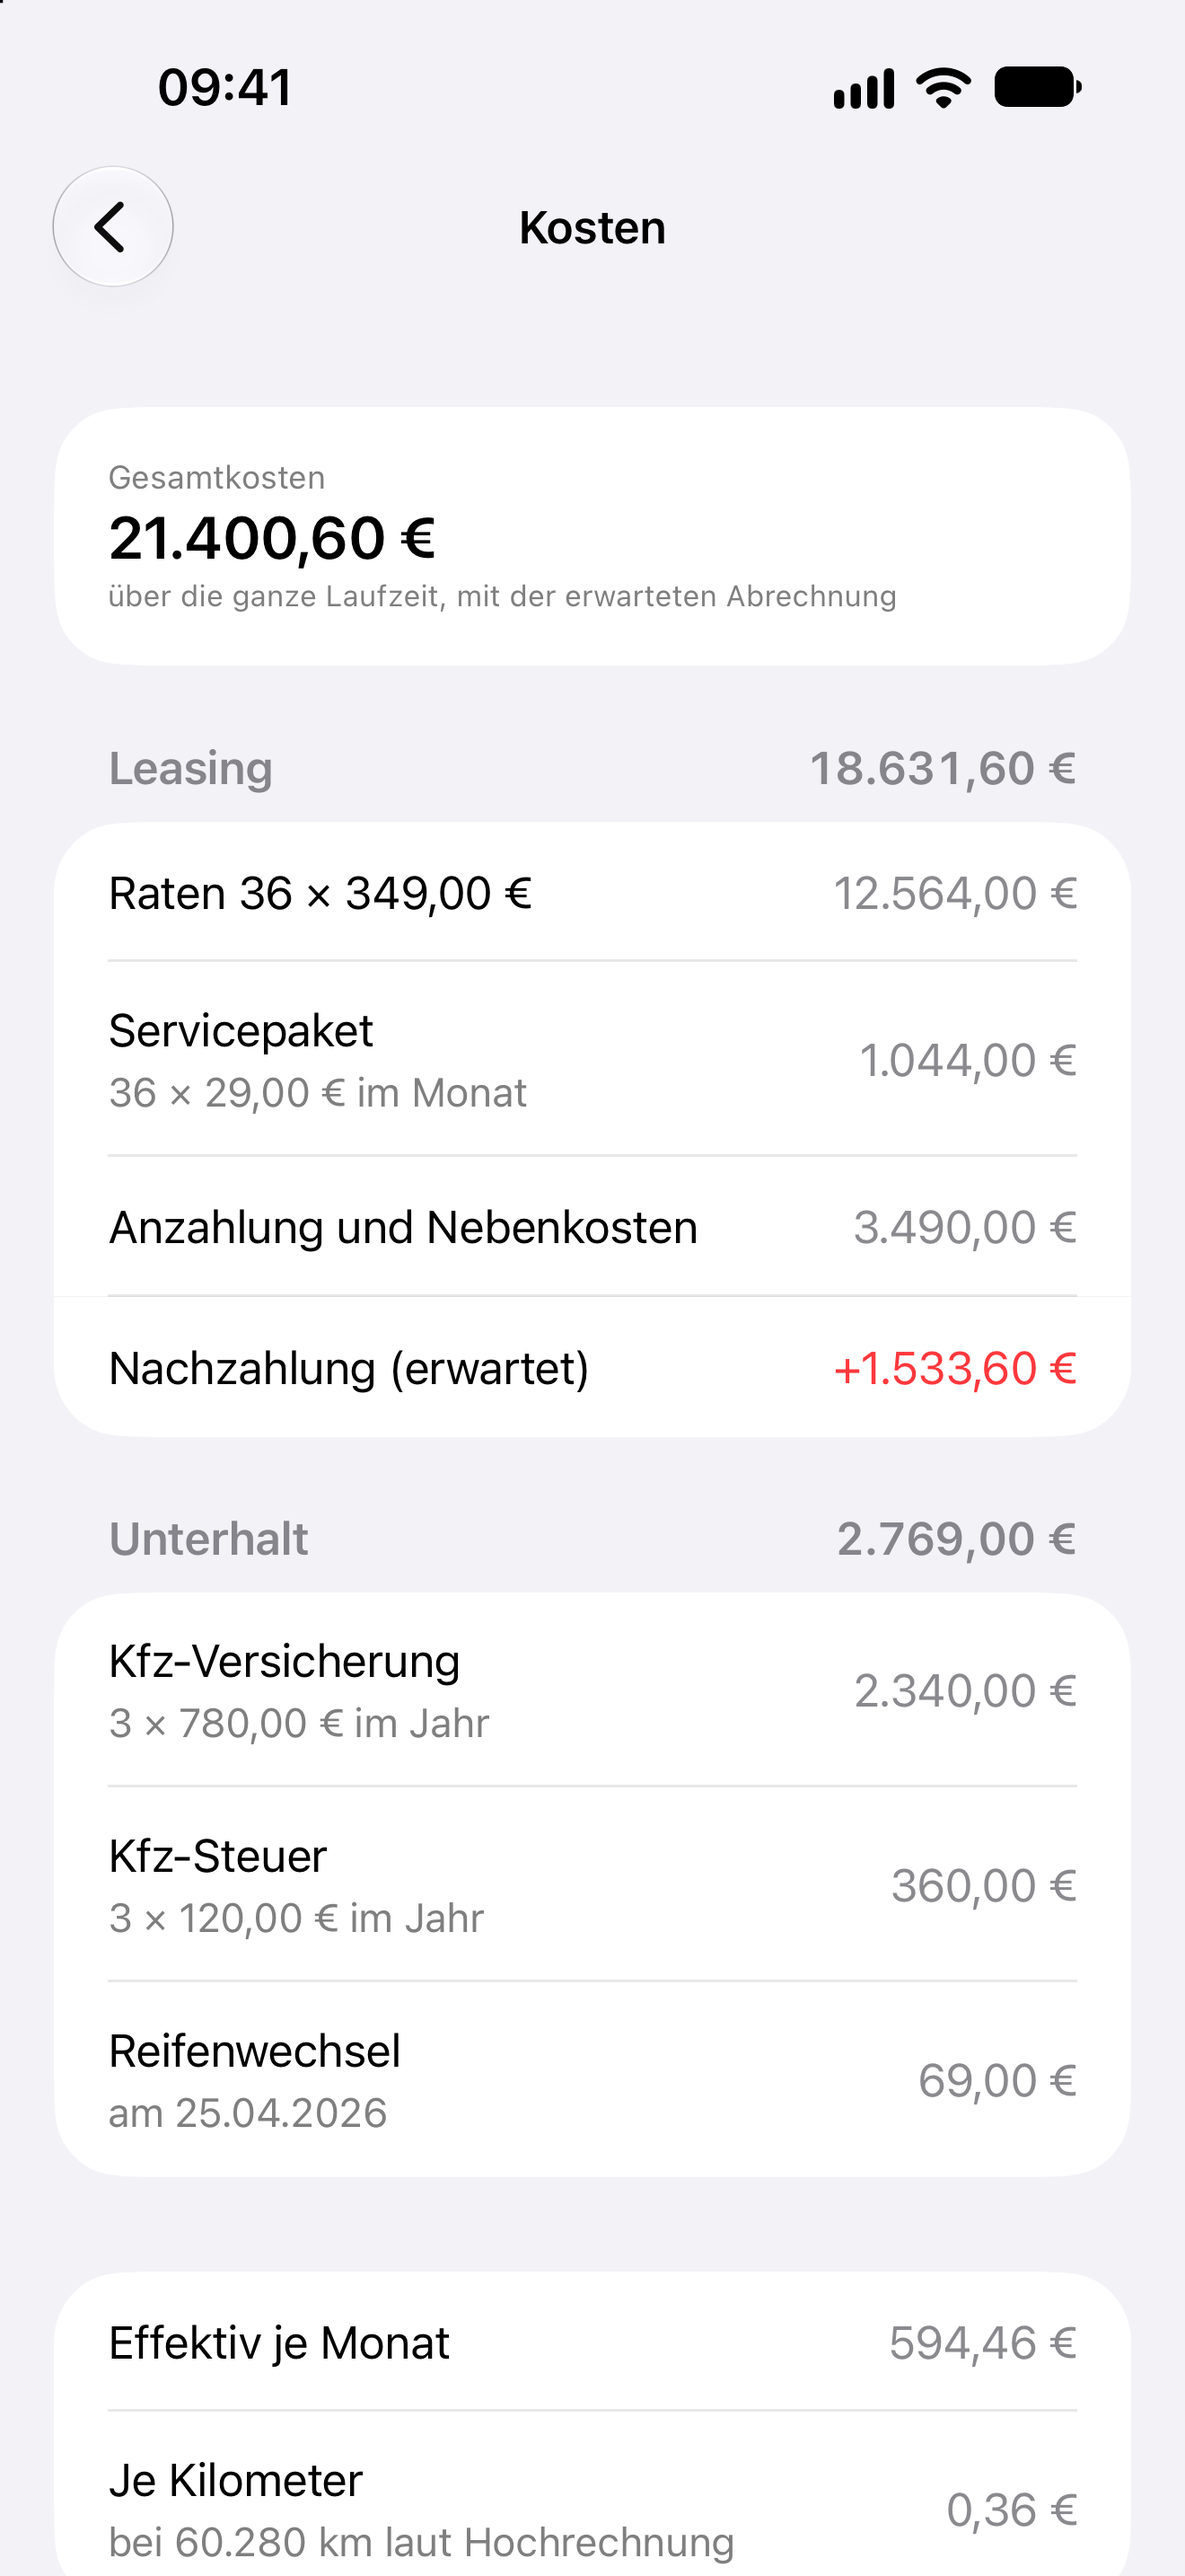
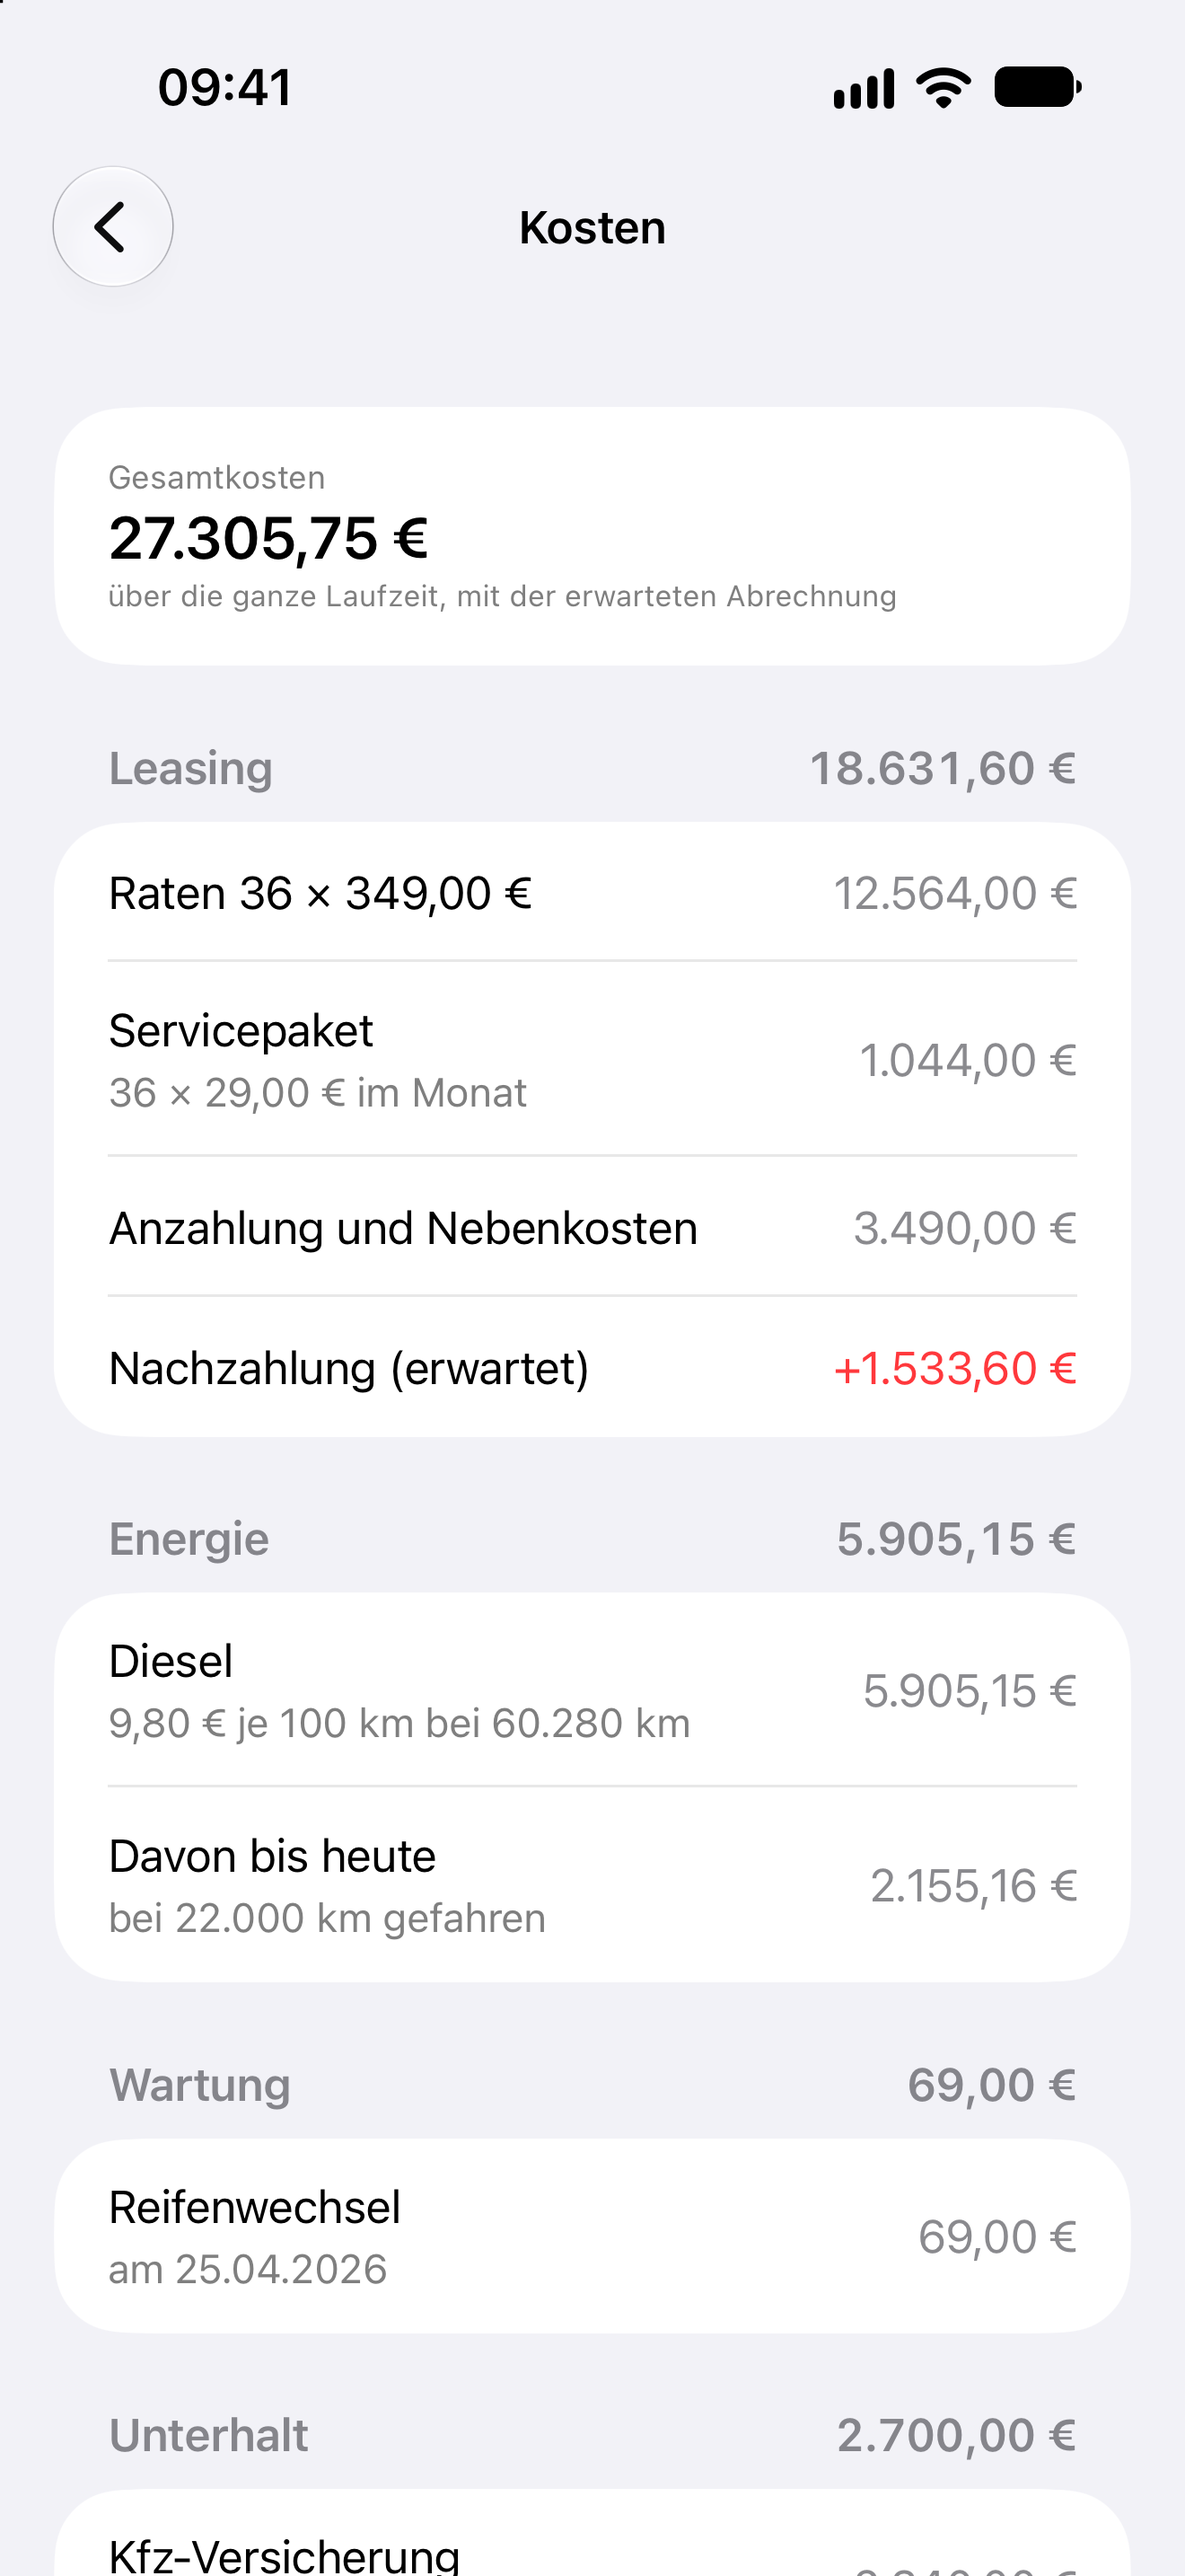
Version 1.6: Energiekosten, Kosten mit Leasing/Energie/Wartung/Unterhalt, Presseseite, Datenschutz Stand 20.10.

diff --git a/presse.html b/presse.html
@@ -39,10 +39,10 @@
     <article>
       <h1>Presseinformationen zu Leasingtacho</h1>
       <p class="vorspann">Kurzbeschreibung, Eckdaten, Funktionen, App-Symbol und Bildschirmfotos für Berichte über Leasingtacho. Fragen beantwortet der Entwickler gern per E-Mail.</p>
-      <p class="stand">Stand: Oktober 2026, Version 1.5.1</p>
+      <p class="stand">Stand: Oktober 2026, Version 1.6</p>
 
       <h2>Kurzbeschreibung</h2>
-      <p>Leasingtacho ist eine iPhone-App für alle, die ein Auto im Kilometerleasing fahren. Aus den Vertragsdaten und den abgelesenen Kilometerständen rechnet sie jederzeit aus, ob man über oder unter der vereinbarten Laufleistung liegt und was das am Vertragsende bedeutet: eine Nachzahlung für Mehrkilometer oder eine Vergütung für Minderkilometer, in Euro. Sätze, Freigrenzen und eine Obergrenze für die Vergütung trägt man so ein, wie sie im Vertrag stehen. Den Kilometerstand erfasst die App per Kamera, über Siri oder mit einem Tipp auf der Startseite. Darüber hinaus rechnet sie aus, was das Auto insgesamt kostet – Raten, Anzahlung, Versicherung, Steuer und die erwartete Kilometerabrechnung, auch je Monat und je Kilometer –, erinnert an Inspektion, Reifenwechsel und Hauptuntersuchung und begleitet die Rückgabe und die Wahl des Anschlussvertrags. Die Daten bleiben auf dem Gerät und in der privaten iCloud – ohne Konto, Werbung oder Tracking.</p>
+      <p>Leasingtacho ist eine iPhone-App für alle, die ein Auto im Kilometerleasing fahren. Aus den Vertragsdaten und den abgelesenen Kilometerständen rechnet sie jederzeit aus, ob man über oder unter der vereinbarten Laufleistung liegt und was das am Vertragsende bedeutet: eine Nachzahlung für Mehrkilometer oder eine Vergütung für Minderkilometer, in Euro. Sätze, Freigrenzen und eine Obergrenze für die Vergütung trägt man so ein, wie sie im Vertrag stehen. Den Kilometerstand erfasst die App per Kamera, über Siri oder mit einem Tipp auf der Startseite. Darüber hinaus rechnet sie aus, was das Auto insgesamt kostet – Raten, Anzahlung, Versicherung, Steuer, Strom oder Sprit und die erwartete Kilometerabrechnung, auch je Monat und je Kilometer –, erinnert an Inspektion, Reifenwechsel und Hauptuntersuchung und begleitet die Rückgabe und die Wahl des Anschlussvertrags. Die Daten bleiben auf dem Gerät und in der privaten iCloud – ohne Konto, Werbung oder Tracking.</p>
 
       <h2>Eckdaten</h2>
       <div class="tabelle-rahmen">
@@ -94,7 +94,7 @@
             </tr>
             <tr>
               <th scope="row">Aktuelle Version</th>
-              <td>1.5.1 vom 19.&#160;Oktober 2026 – Updates sind im Kaufpreis enthalten</td>
+              <td>1.6 vom 21.&#160;Oktober 2026 – Updates sind im Kaufpreis enthalten</td>
             </tr>
           </tbody>
         </table>
@@ -106,9 +106,9 @@
         <li><strong>Stand auf einen Blick:</strong> gefahrene Kilometer, Soll zum heutigen Tag und was das am Vertragsende als Nachzahlung oder Vergütung bedeutet.</li>
         <li><strong>Hochrechnung auf das Vertragsende:</strong> aus dem Schnitt der letzten Wochen, seit Vertragsbeginn oder aus einer eigenen Jahresannahme – dazu die Rechnung für den Fall, dass kein Kilometer mehr dazukommt.</li>
         <li><strong>Rechnet wie der Vertrag:</strong> Sätze für Mehr- und Minderkilometer, Freigrenzen als Freibetrag oder Grenze, Obergrenze für die Vergütung; nach dem Vertragsende die Schlussabrechnung.</li>
-        <li><strong>Was kostet eine Fahrt?</strong> Eine Strecke eingeben und sehen, was sie am Vertragsende kostet – bei mehreren Autos auch, mit welchem sie am günstigsten ist.</li>
+        <li><strong>Was kostet eine Fahrt?</strong> Eine Strecke eingeben und sehen, was sie am Vertragsende kostet, samt Strom oder Sprit – bei mehreren Autos auch, mit welchem sie am günstigsten ist.</li>
         <li><strong>Budget für den Monat:</strong> wie viele Kilometer diesen Monat drin sind, damit man genau bei der vereinbarten Laufleistung landet.</li>
-        <li><strong>Gesamtkosten:</strong> Monatsrate, Anzahlung, Überführung und Zulassung, dazu Versicherung, Kfz-Steuer, Servicepaket und eigene Posten, auch Gutschriften wie E-Auto-Förderung und THG-Prämie. Die App rechnet die Kosten über die Laufzeit aus, mit der erwarteten Kilometerabrechnung, getrennt nach Leasing und Unterhalt, effektiv je Monat und je Kilometer.</li>
+        <li><strong>Gesamtkosten:</strong> Monatsrate, Anzahlung, Überführung und Zulassung, dazu Versicherung, Kfz-Steuer, Servicepaket und eigene Posten, auch Gutschriften wie E-Auto-Förderung und THG-Prämie, dazu Strom oder Sprit aus Verbrauch und Preis. Die App rechnet die Kosten über die Laufzeit aus, mit der erwarteten Kilometerabrechnung, getrennt nach Leasing, Energie, Wartung und Unterhalt, effektiv je Monat und je Kilometer.</li>
         <li><strong>Verlauf und Ablesungen:</strong> Diagramm mit gefahrenen Kilometern, Soll und Hochrechnung; Ablesungen nach Monaten geordnet.</li>
       </ul>
       <h3>Erfassen</h3>
@@ -123,7 +123,7 @@
         <li><strong>Beliebig viele Verträge</strong> mit Gesamtübersicht über alle zusammen.</li>
         <li><strong>Wartung:</strong> Inspektion, Reifenwechsel, Hauptuntersuchung und eigene Termine nach Datum oder Kilometerstand. Die App schätzt, wann ein Kilometerstand erreicht ist, und erinnert zwei Wochen vorher.</li>
         <li><strong>Checkliste für die Rückgabe:</strong> was drei Monate, vier Wochen und eine Woche vorher, am Rückgabetag und danach ansteht, mit Terminen passend zum Vertragsende.</li>
-        <li><strong>Anschlussvertrag planen:</strong> welche Laufleistung zur echten Fahrleistung passt und welches von zwei Angeboten am Ende günstiger ist, Raten plus Kilometerabrechnung. Den Vergleich gibt es auch als <a href="angebotsvergleich.html">Rechner im Browser</a>.</li>
+        <li><strong>Anschlussvertrag planen:</strong> welche Laufleistung zur echten Fahrleistung passt und welches von zwei Angeboten am Ende günstiger ist – Raten, Anzahlung, Überführung, Wartung und Kilometerabrechnung. Den Vergleich gibt es auch als <a href="angebotsvergleich.html">Rechner im Browser</a>.</li>
         <li><strong>Vertrag als Vorlage:</strong> Der nächste Vertrag übernimmt Laufzeit, Sätze, Freigrenzen und Erinnerungen vom alten.</li>
         <li><strong>Abgleich über iCloud:</strong> Verträge und Ablesungen liegen in der privaten iCloud der Nutzer.</li>
         <li><strong>App-Sperre</strong> mit Face&#160;ID, Touch&#160;ID oder Gerätecode; die Widgets auf dem Sperrbildschirm zeigen dann keine Zahlen.</li>
@@ -135,6 +135,10 @@
       <div class="tabelle-rahmen">
         <table class="tabelle eckdaten">
           <tbody>
+            <tr>
+              <th scope="row">1.6 · 21.10.2026</th>
+              <td>Was das Auto wirklich kostet: Strom oder Sprit aus Verbrauch und Preis, auch bei „Was kostet eine Fahrt?“; Kosten getrennt nach Leasing, Energie, Wartung und Unterhalt; Angebotsvergleich mit Anzahlung, Überführung und Wartung</td>
+            </tr>
             <tr>
               <th scope="row">1.5.1 · 19.10.2026</th>
               <td>Für E-Autos: Vorlagen „E-Auto-Förderung“ und „THG-Prämie“ in den Kosten, beide als Gutschrift</td>
@@ -183,13 +187,13 @@
           <figcaption>Vertrag</figcaption>
         </figure>
         <figure>
-          <a href="presse/12-Kosten.png"><img src="presse/12-Kosten.png" width="1320" height="2868" loading="lazy" decoding="async" alt="Seite „Kosten“ eines Vertrags mit den Gesamtkosten über die Laufzeit, getrennt nach Leasing und Unterhalt." /></a>
+          <a href="presse/12-Kosten.png"><img src="presse/12-Kosten.png" width="1320" height="2868" loading="lazy" decoding="async" alt="Seite „Kosten“ eines Vertrags mit den Gesamtkosten über die Laufzeit, getrennt nach Leasing, Energie, Wartung und Unterhalt." /></a>
           <figcaption>Kosten</figcaption>
         </figure>
       </div>
 
       <h3>Alle Dateien</h3>
-      <p>Die Bildschirmfotos sind PNG-Dateien mit 1320&#160;×&#160;2868 Pixeln und zeigen den Stand von Version 1.5.</p>
+      <p>Die Bildschirmfotos sind PNG-Dateien mit 1320&#160;×&#160;2868 Pixeln; „Kosten“ zeigt schon Version 1.6.</p>
       <ul>
         <li><a href="presse/symbol-1024.png">App-Symbol</a> – PNG, 1024&#160;×&#160;1024 Pixel, ohne abgerundete Ecken</li>
         <li><a href="presse/01-Uebersicht.png">Übersicht</a> – die Startseite: erwartete Nachzahlung über alle Verträge zusammen, darunter die einzelnen Verträge mit Kilometerbalken, Abweichung vom Soll und Betrag</li>
@@ -203,7 +207,7 @@
         <li><a href="presse/09-Rueckgabe.png">Rückgabe</a> – Checkliste für die Leasingrückgabe mit Terminen passend zum Vertragsende</li>
         <li><a href="presse/10-Anschluss.png">Anschlussvertrag</a> – zwei Angebote im Vergleich: Raten, erwartete Kilometerabrechnung und Gesamtkosten</li>
         <li><a href="presse/11-Wartung.png">Wartung</a> – anstehende Termine für Reifenwechsel, Inspektion und einen eigenen Termin, darunter Vorlagen</li>
-        <li><a href="presse/12-Kosten.png">Kosten</a> – Gesamtkosten über die Laufzeit, getrennt nach Leasing und Unterhalt, effektiv je Monat und je Kilometer</li>
+        <li><a href="presse/12-Kosten.png">Kosten</a> – Gesamtkosten über die Laufzeit, getrennt nach Leasing, Energie, Wartung und Unterhalt, effektiv je Monat und je Kilometer</li>
       </ul>
 
       <h2>Kontakt für Presse</h2>

diff --git a/index.html b/index.html
@@ -96,7 +96,7 @@
         <figcaption><strong>Was kostet diese Fahrt?</strong> Und mit welchem Auto sie am günstigsten ist</figcaption>
       </figure>
       <figure>
-        <img src="bilder/12-Kosten.png" width="552" height="1200" loading="lazy" decoding="async" alt="Seite „Kosten“ eines Vertrags: Gesamtkosten 21.400,60 Euro über die ganze Laufzeit. Darunter Leasing mit 18.631,60 Euro – 36 Raten zu 349 Euro, Servicepaket, Anzahlung und Nebenkosten und die erwartete Nachzahlung – und Unterhalt mit 2.769 Euro für Versicherung, Steuer und einen Reifenwechsel, dazu effektiv 594,46 Euro je Monat und 36 Cent je Kilometer." />
+        <img src="bilder/12-Kosten.png" width="552" height="1200" loading="lazy" decoding="async" alt="Seite „Kosten“ eines Vertrags: Gesamtkosten 27.305,75 Euro über die ganze Laufzeit. Darunter Leasing mit 18.631,60 Euro – 36 Raten zu 349 Euro, Servicepaket, Anzahlung und Nebenkosten und die erwartete Nachzahlung –, Energie mit 5.905,15 Euro für Diesel zu 9,80 Euro je 100 Kilometer, davon 2.155,16 Euro bis heute, Wartung mit 69 Euro für einen Reifenwechsel und Unterhalt mit 2.700 Euro." />
         <figcaption><strong>Was kostet dein Leasing wirklich?</strong> Raten, Anzahlung und Abrechnung zusammen</figcaption>
       </figure>
       <figure>
@@ -156,15 +156,15 @@
         </li>
         <li>
           <h4>Was kostet diese Fahrt?</h4>
-          <p>Gib eine Strecke ein, etwa die Urlaubsfahrt, und sieh, was sie am Vertragsende kostet: mehr Nachzahlung, weniger Vergütung oder gar nichts, solange sie in der Freigrenze bleibt. Bei mehreren Autos zeigt die App, mit welchem die Fahrt am günstigsten ist.</p>
+          <p>Gib eine Strecke ein, etwa die Urlaubsfahrt, und sieh, was sie am Vertragsende kostet: mehr Nachzahlung, weniger Vergütung oder gar nichts, solange sie in der Freigrenze bleibt – dazu Strom oder Sprit für die Strecke. Bei mehreren Autos zeigt die App, mit welchem die Fahrt am günstigsten ist.</p>
         </li>
         <li>
           <h4>Budget für den Monat</h4>
           <p>Wie viele Kilometer diesen Monat drin sind, wie viel davon gefahren ist und was noch frei ist – so verteilt, dass du genau bei der vereinbarten Laufleistung landest.</p>
         </li>
         <li>
-          <h4>Was kostet dein Leasing wirklich?</h4>
-          <p>Trag Monatsrate, Anzahlung, Überführung und Zulassung ein, dazu Versicherung, Steuer, ein Servicepaket oder eigene Posten – monatlich, jährlich oder einmal. Fährst du elektrisch, ziehst du die E-Auto-Förderung und die THG-Prämie gleich wieder ab. Die App rechnet die Gesamtkosten über die Laufzeit aus, mit der erwarteten Nachzahlung oder Vergütung, getrennt nach Leasing und Unterhalt, effektiv je Monat und je gefahrenem Kilometer. Was eine Inspektion gekostet hat, trägst du gleich beim Abhaken ein. Auf der Startseite stehen die Raten aller Autos zusammen.</p>
+          <h4>Was kostet dein Auto wirklich?</h4>
+          <p>Trag Monatsrate, Anzahlung, Überführung und Zulassung ein, dazu Versicherung, Steuer, ein Servicepaket oder eigene Posten – monatlich, jährlich oder einmal. Mit Verbrauch und Preis rechnet die App auch Strom oder Sprit bis zum Vertragsende aus. Fährst du elektrisch, ziehst du die E-Auto-Förderung und die THG-Prämie gleich wieder ab. Die App rechnet die Gesamtkosten über die Laufzeit aus, mit der erwarteten Nachzahlung oder Vergütung, getrennt nach Leasing, Energie, Wartung und Unterhalt, effektiv je Monat und je gefahrenem Kilometer. Was eine Inspektion gekostet hat, trägst du gleich beim Abhaken ein. Auf der Startseite stehen die Raten aller Autos zusammen.</p>
         </li>
         <li>
           <h4>Rechnet wie dein Vertrag</h4>
@@ -216,7 +216,7 @@
         </li>
         <li>
           <h4>Anschlussvertrag planen</h4>
-          <p>Die App zeigt, wie viel du im Jahr wirklich fährst und welche Laufleistung dazu passt. Trag zwei Angebote ein und sieh, welches am Ende günstiger ist: Raten plus erwartete Nachzahlung oder Vergütung. Aus dem gewählten Angebot wird mit einem Tipp der neue Vertrag. Den Vergleich gibt es auch als <a href="angebotsvergleich.html">Rechner im Browser</a>.</p>
+          <p>Die App zeigt, wie viel du im Jahr wirklich fährst und welche Laufleistung dazu passt. Trag zwei Angebote ein und sieh, welches am Ende günstiger ist: Raten, Anzahlung, Überführung und Wartung plus erwartete Nachzahlung oder Vergütung. Aus dem gewählten Angebot wird mit einem Tipp der neue Vertrag. Den Vergleich gibt es auch als <a href="angebotsvergleich.html">Rechner im Browser</a>.</p>
         </li>
         <li>
           <h4>Vertrag als Vorlage</h4>

diff --git a/datenschutz.html b/datenschutz.html
@@ -26,7 +26,7 @@
   <div class="spalte">
 
     <h1>Datenschutzerklärung für die App „Leasingtacho“</h1>
-    <p class="stand">Stand: 16.&#160;Oktober 2026</p>
+    <p class="stand">Stand: 20.&#160;Oktober 2026</p>
 
     <h2>Verantwortlicher</h2>
     <address>
@@ -40,7 +40,7 @@
 
     <h2>Welche Daten die App verarbeitet</h2>
     <ul>
-      <li><strong>Vertragsdaten:</strong> Fahrzeugbezeichnung, Vertragsbeginn und Laufzeit, vereinbarte Laufleistung, Kilometerstand bei Übernahme, Sätze für Mehr- und Minderkilometer, Freigrenzen, Einstellungen zur Hochrechnung und Erinnerung, auf Wunsch Monatsrate, Anzahlung und Nebenkosten sowie deine Notizen.</li>
+      <li><strong>Vertragsdaten:</strong> Fahrzeugbezeichnung, Vertragsbeginn und Laufzeit, vereinbarte Laufleistung, Kilometerstand bei Übernahme, Sätze für Mehr- und Minderkilometer, Freigrenzen, Einstellungen zur Hochrechnung und Erinnerung, auf Wunsch Monatsrate, Anzahlung und Nebenkosten, Antrieb, Verbrauch und Energiepreis sowie deine Notizen.</li>
       <li><strong>Ablesungen:</strong> Datum, Kilometerstand und Notiz.</li>
       <li><strong>Wartungstermine:</strong> Art, Bezeichnung, Fälligkeit nach Datum oder Kilometerstand, Abstand und letzte Erledigung.</li>
       <li><strong>Kostenposten:</strong> Art, Bezeichnung, Betrag, wie oft er anfällt, ob er zum Leasing oder zum Unterhalt gehört, ob es eine Gutschrift ist und bei einmaligen Posten das Datum.</li>
